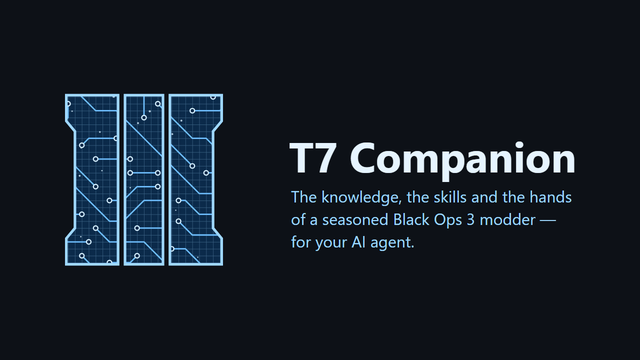
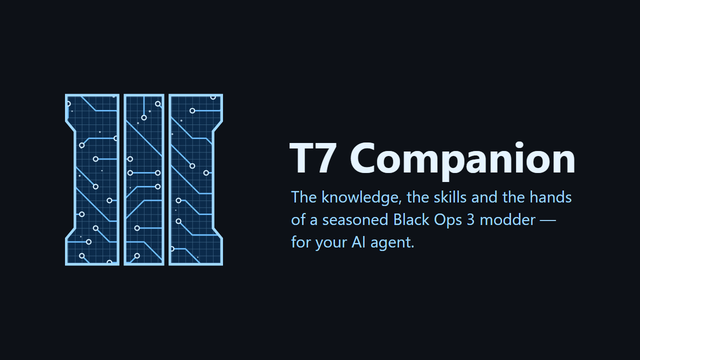
docs: stop text squeezing beside the images on large phones
On phones about 410-430px wide, a sliver remained beside each 320px
image and GitHub broke the text into it letter by letter. Give each
image a transparent 40px strip on its right, so it takes 360px and
leaves no room beside it on a phone, while text still fits beside it
on desktop. Rainy Doom and Radio Norvinsk become PNG for the
transparency; shorten "Ammo Loading" so the patches line still fits.

Claude-Session: https://claude.ai/code/session_015wvD9UyHp2ZiT35UpeXJau

Changed region(s): [[0.4062, 0.0, 1.0, 1.0], [0.0625, 0.2444, 0.375, 0.7639]]

diff --git a/README.md b/README.md
@@ -23,7 +23,7 @@
 
 ### 🧟 Black Ops III
 
-<a href="https://youtu.be/G37yaG4MJuw"><img align="left" src="assets/rainy-doom.jpg" width="320" height="180" hspace="12" alt="Rainy Doom"/></a>
+<a href="https://youtu.be/G37yaG4MJuw"><img align="left" src="assets/rainy-doom.png" width="360" height="180" hspace="12" alt="Rainy Doom"/></a>
 
 <b><a href="https://steamcommunity.com/sharedfiles/filedetails/?id=3745646848">Rainy Doom</a></b> · my first Zombies map<br/>
 5,100 unique subscribers · ▶ <a href="https://youtu.be/G37yaG4MJuw">teaser</a><br/>
@@ -32,7 +32,7 @@ Made by hand: 600+ commits in <a href="https://github.com/McReaper/t7_workspace"
 
 <p><br clear="left"/></p>
 
-<a href="https://github.com/McReaper/t7_companion"><img align="left" src="assets/t7-companion.png" width="320" height="180" hspace="12" alt="T7 Companion"/></a>
+<a href="https://github.com/McReaper/t7_companion"><img align="left" src="assets/t7-companion.png" width="360" height="180" hspace="12" alt="T7 Companion"/></a>
 
 <b><a href="https://github.com/McReaper/t7_companion">T7 Companion</a></b> 🤝 · an AI modding toolkit for BO3<br/>
 <b><a href="https://github.com/McReaper/t7_dxbc">T7 DXBC</a></b> 🤖 · the game's shaders back to HLSL<br/>
@@ -45,19 +45,19 @@ Fork patches: <a href="https://github.com/McReaper/MTPlugins/tree/fix/menu-label
 
 ### 🎒 Single Player Tarkov
 
-<a href="https://github.com/McReaper/SPT.RadioNorvinsk"><img align="left" src="assets/radio-norvinsk.jpg" width="320" height="180" hspace="12" alt="Radio Norvinsk"/></a>
+<a href="https://github.com/McReaper/SPT.RadioNorvinsk"><img align="left" src="assets/radio-norvinsk.png" width="360" height="180" hspace="12" alt="Radio Norvinsk"/></a>
 
 <b><a href="https://github.com/McReaper/SPT.RadioNorvinsk">Radio Norvinsk</a></b> 🤖 · your friends' raids, told in Discord<br/>
 <b><a href="https://github.com/McReaper/SPT.NoScavSelect">No Scav Select</a></b> 🤖 · skips the PMC/Scav screen (<a href="https://gitlab.com/vibrantrida/no-scav-select" title="Port of vibrantrida's mod">port</a>)<br/>
 <b><a href="https://github.com/McReaper/SPT.NoInsurance">No Insurance</a></b> 🤖 · skips the insurance screen (<a href="https://gitlab.com/vibrantrida/no-insurance" title="Port of vibrantrida's mod">port</a>)<br/>
-Fork patches: <a href="https://github.com/McReaper/SPT-RaidReview/tree/mcreaper/reconnect">RaidReview</a> · <a href="https://github.com/McReaper/ManimalAmmoLoadingAnimations/tree/mcreaper/fixes">Ammo Loading</a> · <a href="https://github.com/McReaper/SPT.WeaponCamoAndStickers/tree/lazy-texture-previews">Weapon Camo</a><br/><br/>
+Fork patches: <a href="https://github.com/McReaper/SPT-RaidReview/tree/mcreaper/reconnect">RaidReview</a> · <a href="https://github.com/McReaper/ManimalAmmoLoadingAnimations/tree/mcreaper/fixes">Ammo Anims</a> · <a href="https://github.com/McReaper/SPT.WeaponCamoAndStickers/tree/lazy-texture-previews">Weapon Camo</a><br/><br/>
 <code>C#</code> <code>SPT 4.1</code> <code>Fika</code> <code>Harmony</code>
 
 <p><br clear="left"/></p>
 
 ### ☁ Homelab & tooling
 
-<a href="https://github.com/VictorMalodPortfolio/Homelab"><img align="left" src="assets/homelab.svg" width="320" height="180" hspace="12" alt="Homelab architecture: GitHub and Argo CD deploy to k3s on an OVH VPS, provisioned by OpenTofu"/></a>
+<a href="https://github.com/VictorMalodPortfolio/Homelab"><img align="left" src="assets/homelab.svg" width="360" height="180" hspace="12" alt="Homelab architecture: GitHub and Argo CD deploy to k3s on an OVH VPS, provisioned by OpenTofu"/></a>
 
 <b><a href="https://github.com/VictorMalodPortfolio/Homelab">Homelab</a></b> 🤝 · my k3s cluster on an OVH VPS<br/>
 Rebuilt from Git, secrets included<br/>
